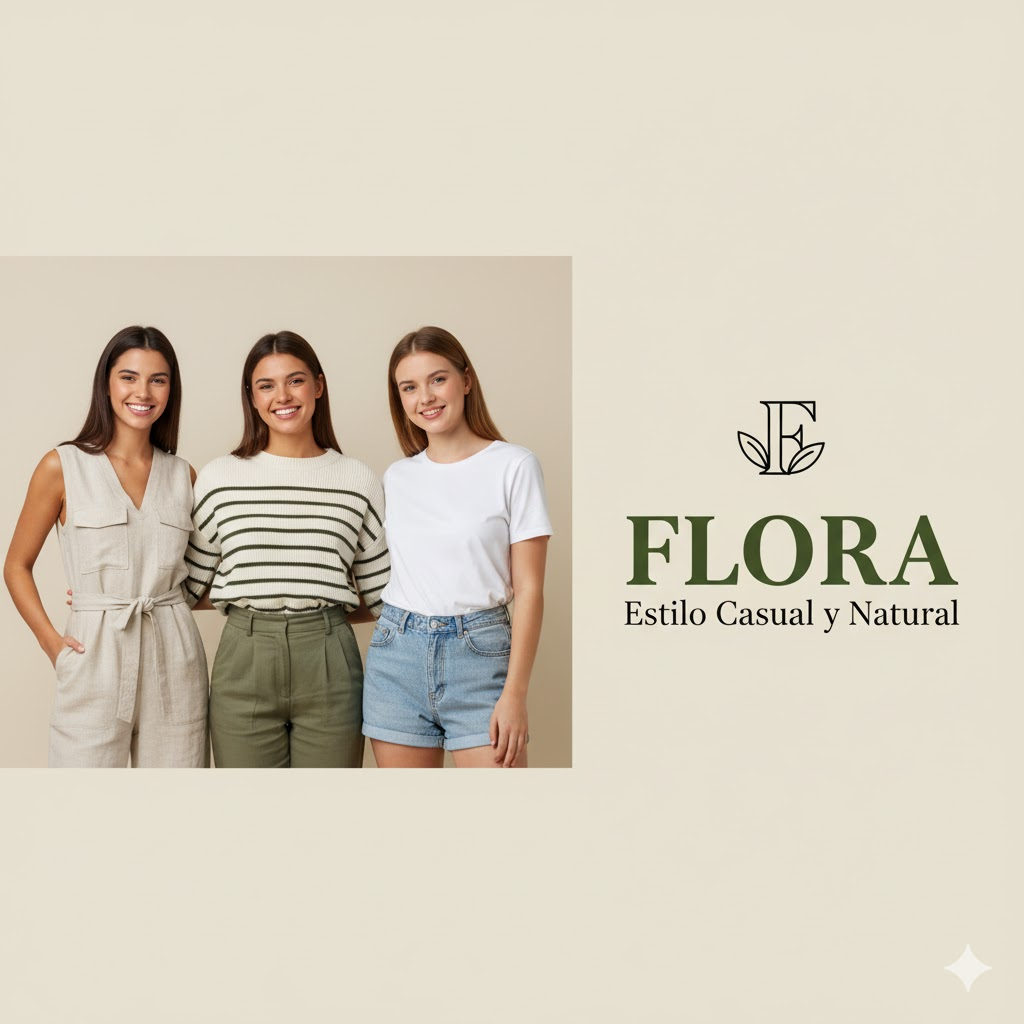
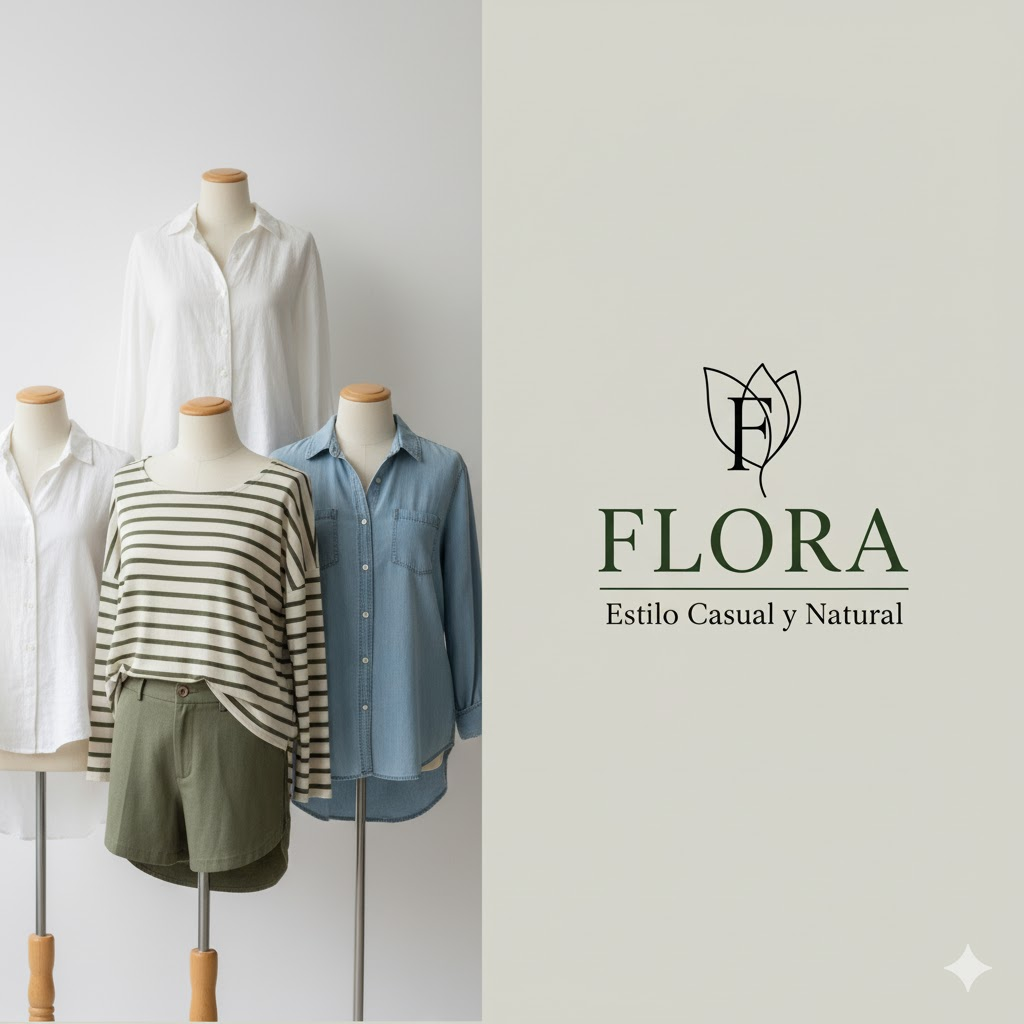
Pagina de productos y carrusel de fotos  en home

diff --git a/src/components/Home.jsx b/src/components/Home.jsx
@@ -1,6 +1,69 @@
 import React from 'react';
-import banner from '../assets/banner.jpg'; 
+import Carousel from 'react-bootstrap/Carousel';
 import ProductList from './ProductList';
+import bannerModelos from '../assets/banner.jpg'; 
+import bannerCamisas from '../assets/banner1.jpg'; 
+import bannerPantalones from '../assets/banner2.jpg'; 
+
+const CarouselImage = ({ src, alt, height }) => (
+    <img
+        className="d-block w-100" // Clases de Bootstrap para ocupar todo el ancho
+        src={src}
+        alt={alt}
+        // Aplica estilos de altura y ajuste para mantener la coherencia
+        style={{ height: height, objectFit: 'cover' }} 
+    />
+);
+
+function HomeCarousel() {
+    
+    const carouselHeight = '1200px'; 
+    
+    return (
+        <Carousel fade className="mt-4 mb-4 shadow-sm">
+            
+           
+            <Carousel.Item>
+                <CarouselImage 
+                    src={bannerModelos} 
+                    alt="Colección de Modelos Flora" 
+                    height={carouselHeight}
+                />
+                <Carousel.Caption>
+                    <h2 >¡Nueva Colección!</h2>
+                    <p >Explora la última tendencia en moda femenina.</p>
+                </Carousel.Caption>
+            </Carousel.Item>
+
+            
+            <Carousel.Item>
+                <CarouselImage 
+                    src={bannerCamisas} 
+                    alt="Camisas y Blusas Flora" 
+                    height={carouselHeight}
+                />
+                <Carousel.Caption>
+                    <h2 className= "text-secondary">Nuestras Camisas</h2>
+                    <p className= "text-secondary">Encuentra elegancia y comodidad en cada diseño.</p>
+                </Carousel.Caption>
+            </Carousel.Item>
+
+            
+            <Carousel.Item>
+                <CarouselImage 
+                    src={bannerPantalones} 
+                    alt="Pantalones Casuales Flora" 
+                    height={carouselHeight}
+                />
+                <Carousel.Caption>
+                    <h2 className="text-secondary">Pantalones Infaltables</h2>
+                    <p className="text-secondary">Comodidad para tu día a día con estilo.</p>
+                </Carousel.Caption>
+            </Carousel.Item>
+        </Carousel>
+    );
+}
+
 
 const Home = () => {
   return (
@@ -8,14 +71,10 @@ const Home = () => {
       <h1 className="text-center">Bienvenidos a Flora Online Shop!</h1>
       <h5 className="text-center">Explora nuestra ultima coleccion para mujeres</h5>
       <h5 className="text-center">Encuentra los mejores precios y estilos disponibles.Disfruta comprar con nosotros!</h5>
-          <img
-        src={banner} 
-        alt="banner Flora"
-        className="img-fluid d-block mx-auto mt-4 mb-4" 
-      />
-    <h2>Productos</h2>
-     <ProductList />
-     
+      
+      <HomeCarousel />
+
+        
     </div>
   );
 };

diff --git a/src/components/Header.jsx b/src/components/Header.jsx
@@ -2,7 +2,7 @@ import React from 'react';
 import './Header.css';
 import logoFlora from '../assets/flora1.jpg'; 
 import { Link } from 'react-router-dom';
-import { Navbar, Nav, Container, Form, FormControl, Button } from 'react-bootstrap';
+import { Navbar, Nav, Container, Form, FormControl, Button, Image } from 'react-bootstrap';
 import { FontAwesomeIcon } from '@fortawesome/react-fontawesome';
 import { faShoppingCart, faSearch } from '@fortawesome/free-solid-svg-icons';
 
@@ -17,13 +17,14 @@ const Header = () => {
                 alt="Flora Logo"
                 width="100" 
                 height="100" 
-                className="d-inline-block align-top me-2"
+                className="d-inline-block align-top me-2 rounded-circle" 
             />
           
         </Navbar.Brand>
 
        <Nav className="me-auto align-items-center">
           <Nav.Link as={Link} to="/" className="me-3 fs-4">Home</Nav.Link>
+          <Nav.Link as={Link} to="/productos" className="me-3 fs-4">Productos</Nav.Link>
           <Nav.Link as={Link} to="/ofertas" className="me-3 fs-4">Ofertas</Nav.Link>
           <Nav.Link as={Link} to="/infaltables" className="me-3 fs-4">Infaltables</Nav.Link>
           </Nav>
@@ -36,7 +37,7 @@ const Header = () => {
             />
                <Button className="btn-lg btn-custom-search">
                   <FontAwesomeIcon icon={faSearch}
-                  className="icon-lupa-color" /> {/* Ícono de lupa */}
+                  className="icon-lupa-color" /> 
                 </Button>
           </Form>       
 

diff --git a/src/App.jsx b/src/App.jsx
@@ -4,7 +4,8 @@ import Home from './components/Home';
 import Ofertas from './components/Ofertas';
 import Infaltables from './components/Infaltables';
 import Login from './components/Login'; 
-import Footer from './components/Footer'
+import Footer from './components/Footer';
+import Productos from './components/Productos';
 
 function App() {
 
@@ -14,6 +15,7 @@ function App() {
       <Routes>
         <Route path="/administracion" element={<Login />} />
         <Route path="/" element={<Home />} />
+        <Route path="/productos" element={<Productos />} />
         <Route path="/ofertas" element={<Ofertas />} />
         <Route path="/infaltables" element={<Infaltables />} />
       </Routes>

diff --git a/src/components/Productos.jsx b/src/components/Productos.jsx
@@ -1,0 +1,13 @@
+import React from 'react';
+import ProductList from './ProductList';
+
+const Productos = () => {
+  return (
+    <div className="container">
+      <h2>Productos</h2>
+      <ProductList />
+    </div>
+  );
+};
+
+export default Productos;
